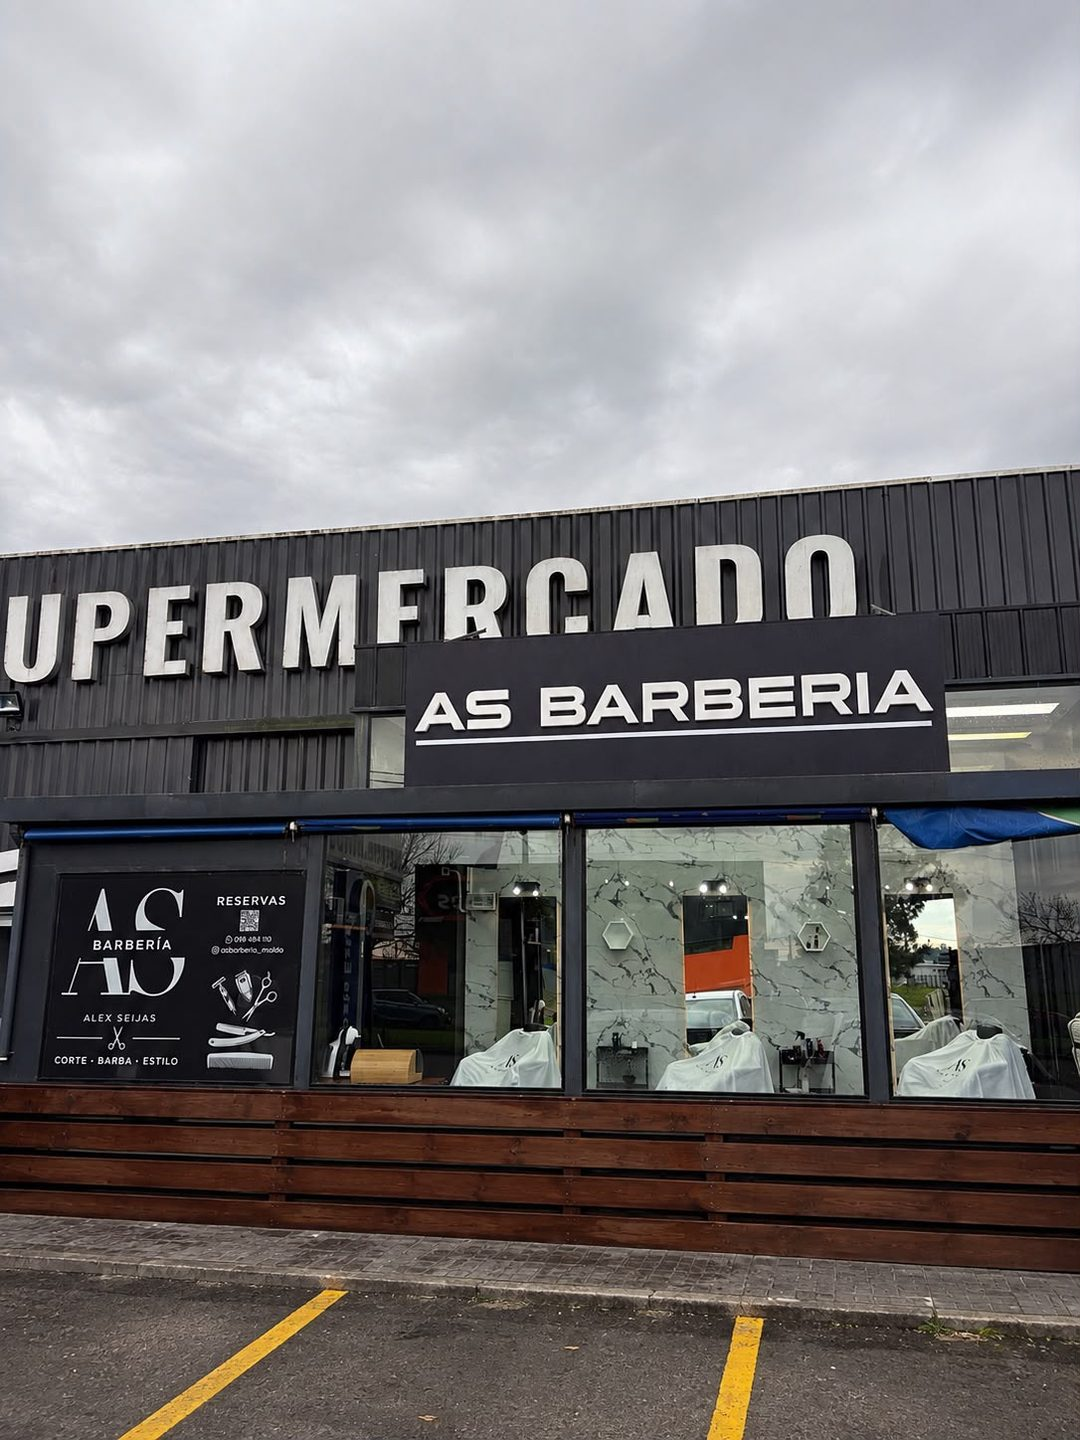
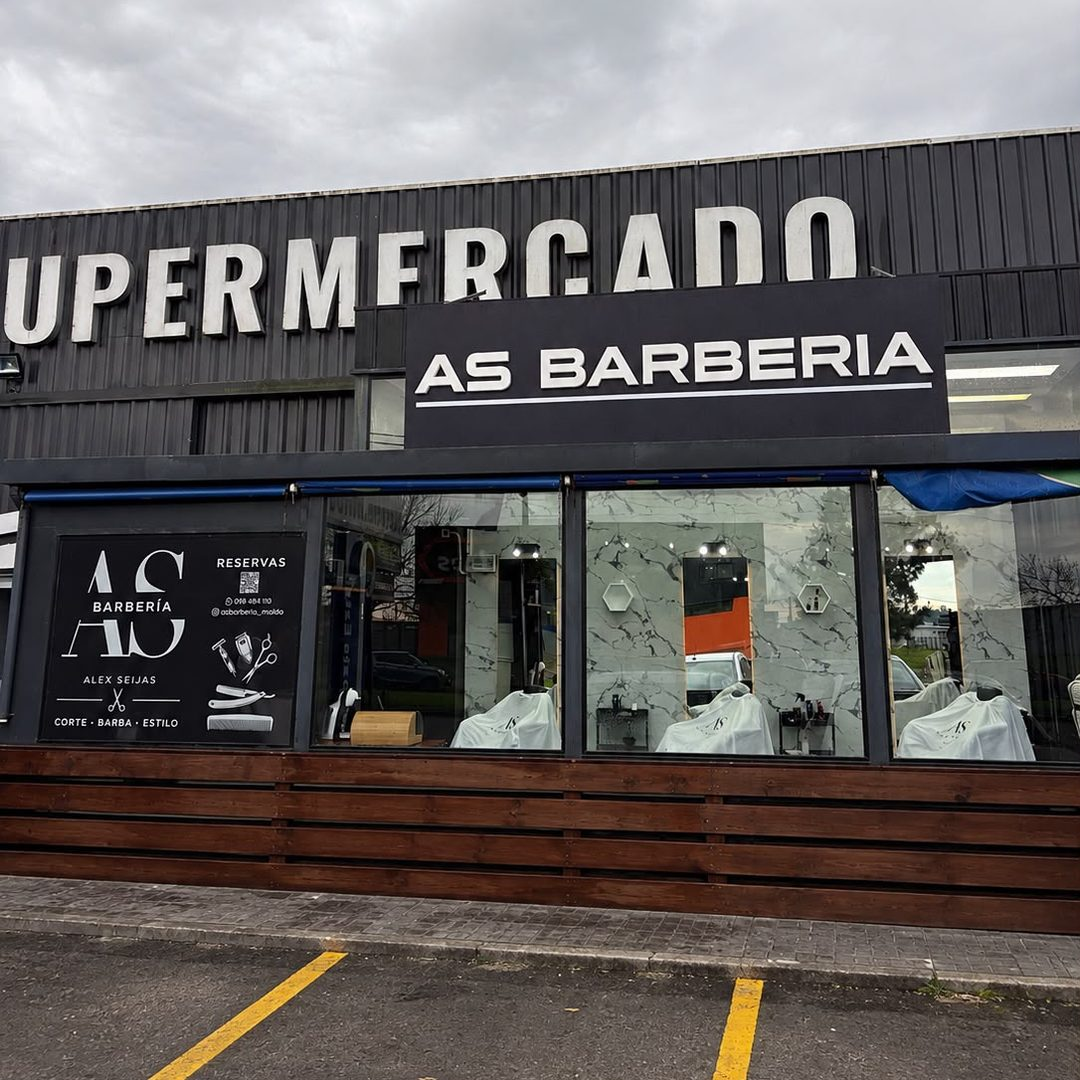
Encuadrar las fotos de sucursales en la barbería
- Nueva foto de la fachada de Centro, recortada desde la cornisa para
  que se vea el local y no el piso de arriba.
- Lussich recortada con el mismo criterio (menos cielo).
- Las tarjetas de sucursal pasan a formato cuadrado.

diff --git a/src/components/ReservaSection.tsx b/src/components/ReservaSection.tsx
@@ -78,8 +78,8 @@ const ReservaSection: React.FC<ReservaSectionProps> = () => {
                   }`}
                 >
                   {s.foto ? (
-                    // Foto completa (3:4, igual que el original) con los datos encima
-                    <div className="relative aspect-[3/4] overflow-hidden">
+                    // Foto cuadrada encuadrada en el local, con los datos encima
+                    <div className="relative aspect-square overflow-hidden">
                       <img
                         src={s.foto}
                         alt={`Fachada de AS Barbería, sucursal ${s.nombre}`}

diff --git a/src/data/barberia.ts b/src/data/barberia.ts
@@ -33,7 +33,7 @@ export interface Sucursal {
   lat: number;
   lng: number;
   mapsUrl: string;
-  /** Foto de la fachada, vertical 3:4. */
+  /** Foto de la fachada, cuadrada y encuadrada en el local. */
   foto?: string;
   /** Días y franja en que abre el local. Refleja la cobertura de los barberos asignados. */
   horario: string;
